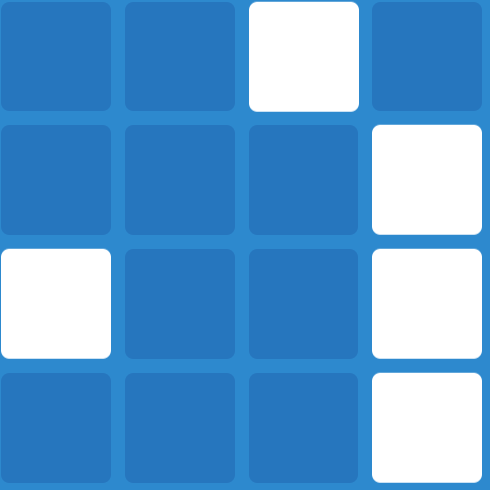
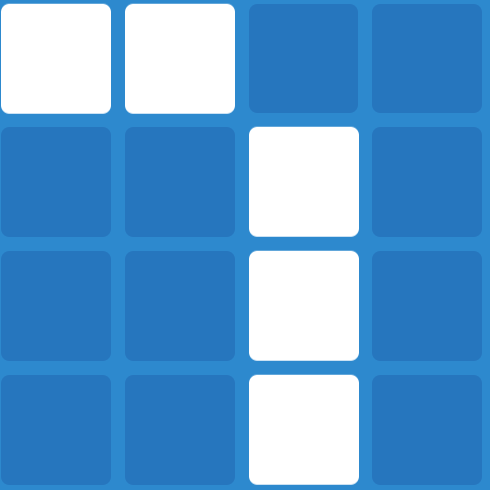
init

diff --git a/VisualMemory/VisualMemory.py b/VisualMemory/VisualMemory.py
@@ -1,4 +1,4 @@
-from pyautogui import screenshot, locateCenterOnScreen, pixelMatchesColor, locateOnScreen
+from pyautogui import screenshot, locateCenterOnScreen, pixelMatchesColor, locateOnScreen, locate
 from mouse import click, move
 from keyboard import is_pressed
 from time import sleep
@@ -8,6 +8,12 @@ import cv2
 gaps = (20, 14, 12, 10, 8, 6, 6, 6, 4, 4, 4, 4, 2, 2)
 width = 480
 pixel_tolerance = 10
+
+group = 3
+curr_count = 1
+changes = 0
+rows = 3
+
 
 
 def waitAndClick(img):
@@ -20,33 +26,36 @@ def waitAndClick(img):
 
 waitAndClick(r"start.png")
 sleep(0.1)
-for score in range(1, 100):
-    print("Score:", score)
+for level in range(1, 100):
+    print("Score:", level)
     # wait for white squares to appear
-    while not locateOnScreen("white_square.png"): pass
+    while not locateOnScreen("white_square.png", grayscale=False): pass
     sleep(0.3)
 
-    if score < 94: screen = screenshot(region=(710, 300, 490, 490))
-    else: screen = screenshot(region=(2639-1920, 294, 465, 494))
-    screen.save(f"RoundSc\\round_{score}.png")
+    if level < 94: screen = screenshot(region=(710, 300 - 19, 490, 490))
+    else: screen = screenshot(region=(2639-1920, 294 - 19, 465, 494))
+    screen.save(f"RoundSc_new\\round_{level}.png")
 
     squares = []
 
-    n = int(sqrt(score / 3 + 1))
-    k1 = (n - 1) * (n - 1)
-    k2 = 2*(n+1)
-    k3 = n + 2
-    rows = ((score + k1) // k2) + k3
-
+    # n = int(sqrt(score / 3 + 1))
     # rows = ((score + (n - 1)**2 ) // (2*(n+1)) + n + 2
+    if curr_count == group:
+        rows += 1
+        changes += 1
+        curr_count = 0
+    if changes == 3:
+        changes = 0
+        group += 2
+    curr_count += 1
+
     print("Rows:", rows)
-    print("n:", k2)
 
     x_gap = gaps[min(rows - 3, len(gaps)-1)]
     x_step = round((width - x_gap * (rows - 1)) / rows)
     x_half_step = round(x_step / 2)
 
-    if score < 94:
+    if level < 94:
         y_gap, y_step, y_half_step = x_gap, x_step, x_half_step
     else:
         y_gap = 4
@@ -63,10 +72,10 @@ for score in range(1, 100):
             if (abs(r - 255) + abs(g - 255) + abs(b - 255)) < pixel_tolerance*3:
                 squares.append((x_pixel + 710, y_pixel + 300))
 
-    print("Squares:", squares, "\n")
+    #print("Squares:", squares, "\n")
 
     # wait for white squares to disappear
-    while locateOnScreen("white_square.png"): pass
+    while locateOnScreen("white_square.png", grayscale=False): pass
     sleep(0.05)
 
     # clicks

diff --git a/Aim/Aim_v2.py b/Aim/Aim_v2.py
@@ -7,18 +7,13 @@ import cv2
 target = Image.open(r"small_target.png")
 sleep(1)
 
-OperaGX = False
 
 
 while not is_pressed("escape"):
     if is_pressed("p"):
-        # 951, 182  - chrome
-        # 973, 180  - opera gx
-        if OperaGX: click(973, 180)
-        else: click(951, 182)
+        click(951, 166)
         while is_pressed("p"):
-            pos = locate(target, screenshot(region=(829 + 22 * OperaGX, 132 - 2 * OperaGX, 245, 103)), grayscale=True, confidence=0)
+            pos = locate(target, screenshot(region=(829, 130, 245, 103)), grayscale=True, confidence=0)
 
             if pos:
-                pos = center(pos)
-                click(pos.x + 829 + 22 * OperaGX, pos.y + 132 - 2 * OperaGX +10)
+                click(pos.left + 829 + 5, pos.top + 142 + 5)

diff --git a/Aim/Aim.py b/Aim/Aim.py
@@ -6,17 +6,18 @@ import cv2
 target = Image.open(r"target3.png")
 sleep(1)
 
+
 while not is_pressed("escape"):
     # search for "typing" on screen and click "play"
     while not locateCenterOnScreen(r"aim_trainer.png"): pass
     pos = locateCenterOnScreen(r"aim_trainer.png")
-    click(pos.x + 220, pos.y)
+    click(pos.x + 220, pos.y - 34)
     sleep(0.4)
-    click(951, 500)
+    click(951, 500 - 34)
 
     count = 0
     while not is_pressed("escape") and count < 32:
-        screen = screenshot(region=(2265-1920, 234, 1213, 530))
+        screen = screenshot(region=(2265-1920, 234 - 34, 1213, 530))
         pos = locate(target, screen, grayscale=True, confidence=0.8)
 
         if pos:

diff --git a/test.py b/test.py
@@ -1,0 +1,20 @@
+from math import sqrt
+group = 3
+curr_count = 1
+changes = 0
+rows = 3
+
+for level in range(1, 90):
+    if curr_count == group:
+        rows += 1
+        changes += 1
+        curr_count = 0
+        print()
+
+    if changes == 3:
+        changes = 0
+        group += 2
+        print()
+
+    print(f"{level}: {rows}x{rows}")
+    curr_count += 1

diff --git a/VisualMemory/test2.py b/VisualMemory/test2.py
@@ -1,0 +1,5 @@
+from pyautogui import screenshot, locateOnScreen, moveTo, center
+
+e = locateOnScreen("white_square.png", grayscale=False)
+print(e)
+moveTo(center(e))
